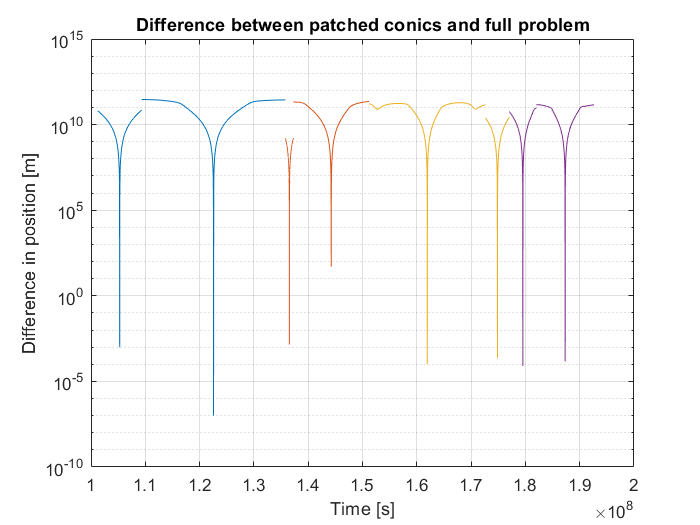
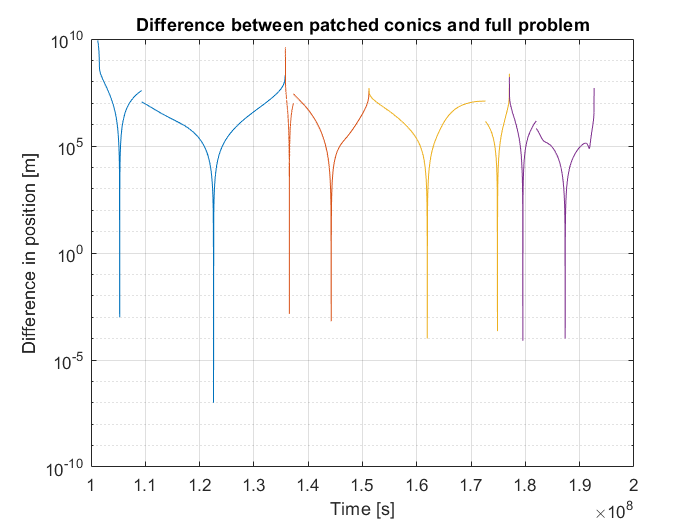
Corrected results for propagation patched conics trajectory example.

diff --git a/tutorials/applicationWalkthroughs/fullPropagationPatchedConicsTrajectory.rst b/tutorials/applicationWalkthroughs/fullPropagationPatchedConicsTrajectory.rst
@@ -164,9 +164,8 @@ Again, the function :literal:`fullPropagationPatchedConicsTrajectory` is used to
                 integratorSettings, false );
 
 
-When a more complex dynamical model is applied, the differences in cartesian state between the patched conics trajectory and the full problem results become significant. In this example, the addition of the gravitational atttraction exerted by the transfer bodies has such a dramatic impact on the spacecraft motion that most of the legs of the patched conics trajectory blow up. The plot below represents the patched conics trajectory in full line and the corresponding full problem results are plotted in dashed line. Only the first two legs of the trajectory are represented for the sake of clarity. Finally, the position differences are also plotted for the whole trajectory, highlighting the strong effect of the perturbations.
+When a more complex dynamical model is applied, the differences in cartesian state between the patched conics trajectory and the full problem results become significant. In this example, the addition of the gravitational atttraction exerted by the transfer bodies has such a dramatic impact on the spacecraft motion that most of the legs of the patched conics trajectory blow up. The plot below represents the differences in position between the patched conics trajectory and the full problem result for the whole trajectory, highlighting the strong effect of the perturbations.
 
 
-.. figure:: images/fullProblemTrajectoryPerturbedCase.png
 .. figure:: images/differenceFullProblemPatchedConicsPerturbedCase.png
 
